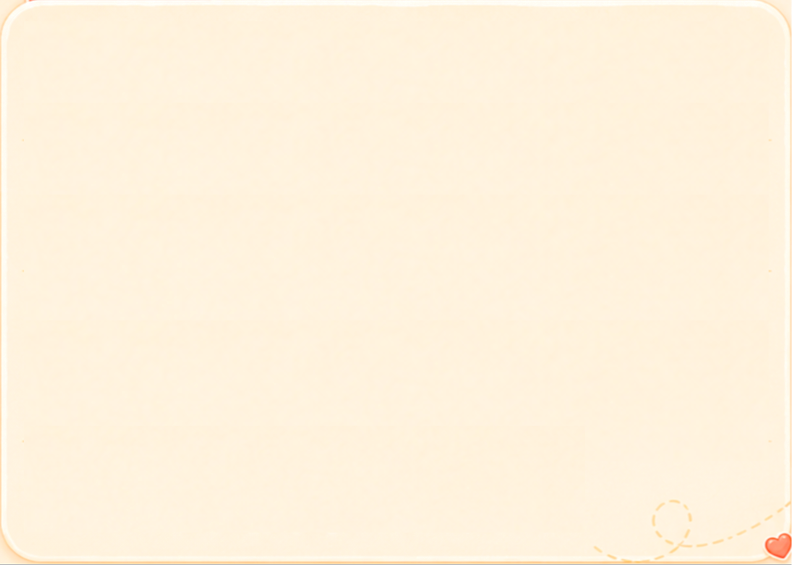
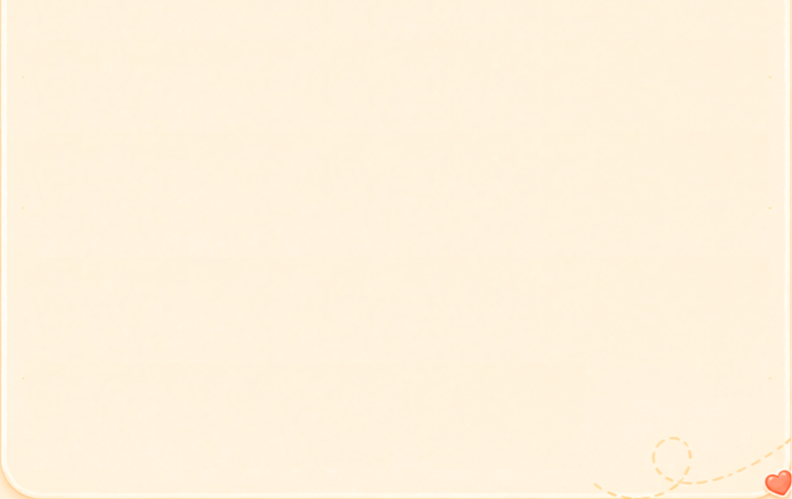
fix: pet profile round 41 — region bg cropped 56px (less tall), tabs sit ON background, content margins aligned to its inner frame

diff --git a/petpet/ui/pet_profile.py b/petpet/ui/pet_profile.py
@@ -80,7 +80,7 @@ TAB_SLOTS = {
     "套装": "tab_outfit.png",
 }
 TAB_BAR_AT = (279, 660, 728, 124)
-CONTENT_AT = (279, 796, 728, 569)
+CONTENT_AT = (279, 712, 728, 653)
 
 # 套装素材（新 art 直接按套装 id 映射；未映射回退 idle 预览路径）。
 OUTFIT_ART = {
@@ -923,7 +923,7 @@ class PetProfileWindow(QWidget):
         for i, (name, art_name) in enumerate(TAB_SLOTS.items()):
             tab = _TabButton(name, self, art=_pp_pixmap(art_name))
             tx = block_x + round((24 + i * 176) * _SX * _FIT)
-            ty = TAB_BAR_AT[1] - round(tab_h * 0.55)
+            ty = TAB_BAR_AT[1] + round(8 * _SY * _FIT)
             tab.setGeometry(tx, ty, tab_w, tab_h)
             tab.raise_()
             tab.clicked.connect(
@@ -934,7 +934,7 @@ class PetProfileWindow(QWidget):
         self._content = QStackedWidget(self)
         self._content.setGeometry(_R(*CONTENT_AT))
         # 内容直接写在区域背景内框里（第三十九轮：剥掉所有中间层）。
-        self._content.setContentsMargins(26, 8, 26, 14)
+        self._content.setContentsMargins(22, 6, 22, 10)
         self._intro_page = self._build_intro_page()
         self._outfit_page = self._build_outfit_page()
         self._content.addWidget(self._intro_page)
